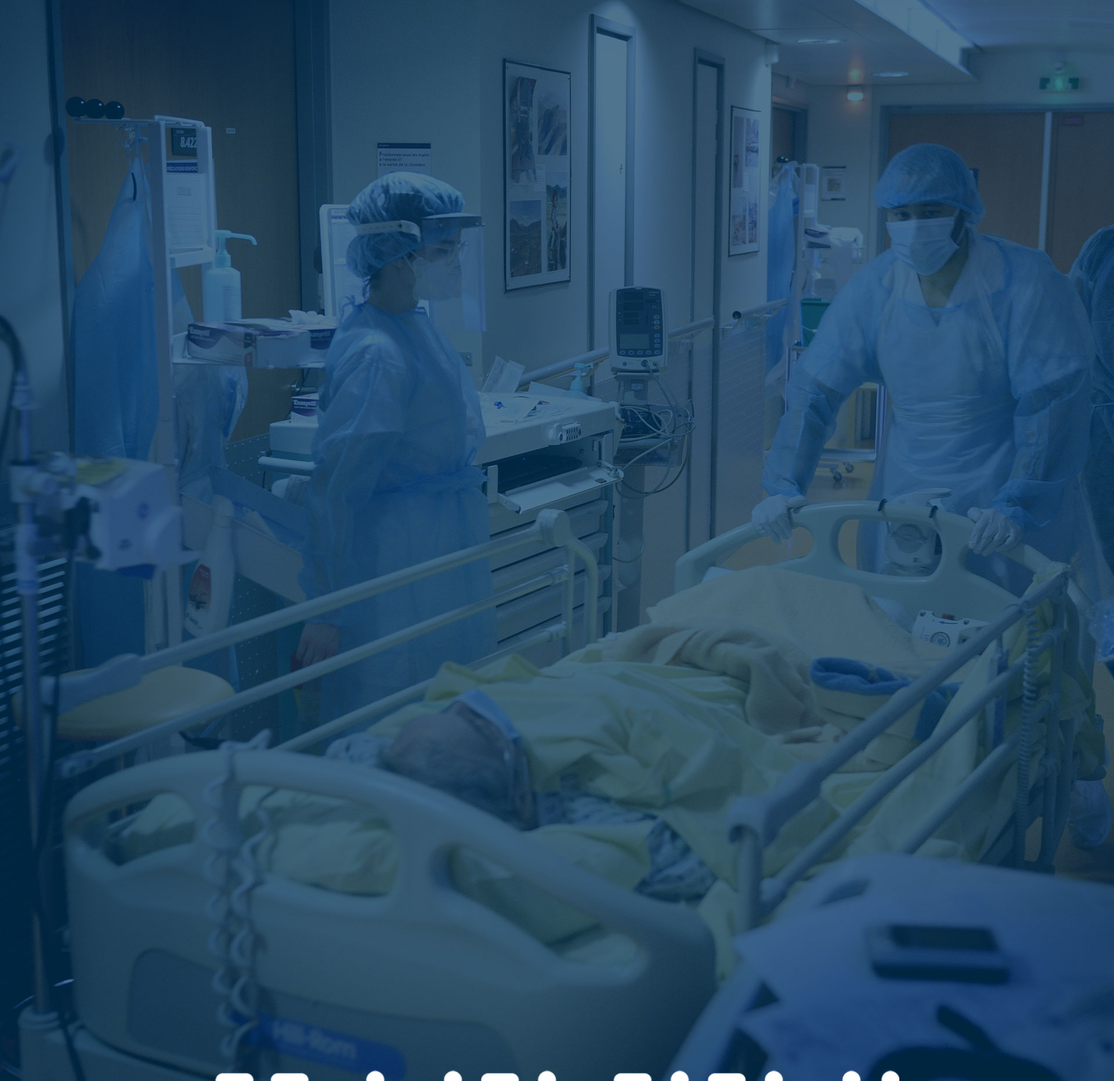
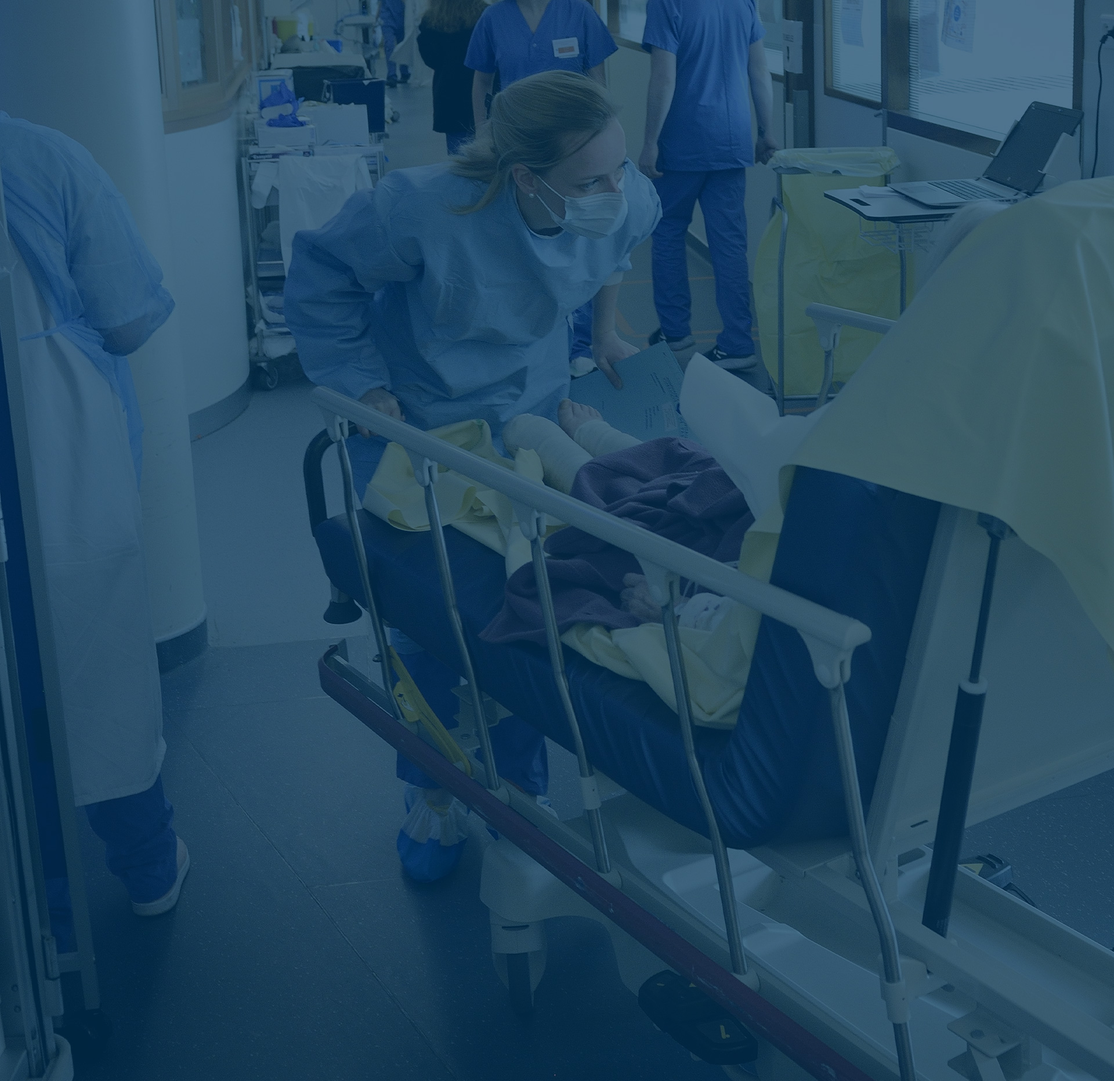
commit aphp

diff --git a/src/index.html b/src/index.html
@@ -17,9 +17,26 @@
     <meta property="og:type" content="website">
     <meta property="og:url" content="http://urgence-coronavirus.fondationrechercheaphp.fr/" />
     <meta property="og:title" content="Soutenons ceux qui prennent soin de nous" />
-    <meta property="og:image" content="http://urgence-coronavirus.fondationrechercheaphp.fr/" />
+    <meta property="og:image" content="http://ensemble.fondationrechercheaphp.fr/images/bg-header-hd.jpg" />
     <meta property="og:image:width" content="1200" />
     <meta property="og:image:height" content="627" />
+    <link rel="apple-touch-icon" sizes="57x57" href="./images/favicon/>
+    <link rel="apple-touch-icon" sizes="60x60" href="./images/favicon/apple-icon-60x60.png">
+    <link rel="apple-touch-icon" sizes="72x72" href="./images/favicon/apple-icon-72x72.png">
+    <link rel="apple-touch-icon" sizes="76x76" href="./images/favicon/apple-icon-76x76.png">
+    <link rel="apple-touch-icon" sizes="114x114" href="./images/favicon/apple-icon-114x114.png">
+    <link rel="apple-touch-icon" sizes="120x120" href="./images/favicon/apple-icon-120x120.png">
+    <link rel="apple-touch-icon" sizes="144x144" href="./images/favicon/apple-icon-144x144.png">
+    <link rel="apple-touch-icon" sizes="152x152" href="./images/favicon/apple-icon-152x152.png">
+    <link rel="apple-touch-icon" sizes="180x180" href="./images/favicon/apple-icon-180x180.png">
+    <link rel="icon" type="image/png" sizes="192x192"  href="./images/favicon/android-icon-192x192.png">
+    <link rel="icon" type="image/png" sizes="32x32" href="./images/favicon/favicon-32x32.png">
+    <link rel="icon" type="image/png" sizes="96x96" href="./images/favicon/favicon-96x96.png">
+    <link rel="icon" type="image/png" sizes="16x16" href="./images/favicon/favicon-16x16.png">
+    <link rel="manifest" href="./images/favicon/manifest.json">
+    <meta name="msapplication-TileColor" content="#ffffff">
+    <meta name="msapplication-TileImage" content="/ms-icon-144x144.png">
+    <meta name="theme-color" content="#ffffff">
 </head>
 
 <body>
@@ -35,14 +52,14 @@
                     </div>
                 </div>
                 <div class="share col-xs-6 col-lg-6 right">
-                    <a href="https://www.facebook.com/FondationRecherche/" target="_blank"><img src="./assets/images/fb.svg" alt="logo facebook"></a>
+                    <a href="https://www.facebook.com/FondationAPHP/" target="_blank"><img src="./assets/images/fb.svg" alt="logo facebook"></a>
                     <a href="https://twitter.com/FondationAPHP" target="_blank"><img src="./assets/images/tw.svg" alt="logo twitter"></a>
                 </div>
             </div>
             <div class="row between">
                 <div class="col-xs-12">
                     <div class="block-title center">
-                        <h1 class="title-page"><span>Soutenons ceux</span><br><span>qui prennent soin de nous !</span></h1>
+                        <h1 class="title-page"></span><span>Soutenons ceux</span><br><span>qui prennent soin de nous !</span></h1>
                     </div>
                 </div>
                 <div class="col-xs-12 col-xl-6">
@@ -135,7 +152,7 @@
                                 Je fais un don en ligne 
                             </div>
                             <p class="mB1">Pour nous permettre<br />de répondre à des<br />besoins concrets<br />sur le terrain</p>
-                            <a href="https://soutenir.fondationaphp.fr/ensemble" target="_blank" class="btn btn-don">Je donne</a>
+                            <a href="https://soutenir.fondationaphp.fr/ensemble?utm_source=landing&utm_medium=landing&utm_campaign=cfa2020&utm_content=boutondon" target="_blank" class="btn btn-don">Je donne</a>
                         </div>
                     </div>
                 </div>
@@ -293,7 +310,7 @@
             </div>
             <div class="sub-title">Ensemble, nous avons un impact<br />concret et immédiat</div>
             <div class="block-btn">
-                <a href="https://soutenir.fondationaphp.fr/ensemble" target="_blank" class="btn btn-don">Je fais un don</a>
+                <a href="https://soutenir.fondationaphp.fr/ensemble?utm_source=landing&utm_medium=landing&utm_campaign=cfa2020&utm_content=boutondon" target="_blank" class="btn btn-don">Je fais un don</a>
             </div>
         </div>
     </div>
@@ -384,7 +401,7 @@
                         <p class="sub-title">Un don de 200 € vous revient à 68€</p>
                         <p class="sub-title last-sub-title">Merci pour votre solidarité avec<br>les équipes de l’AP-HP</p>
                         <div class="bnt-content">
-                            <a href="https://soutenir.fondationaphp.fr/ensemble" target="_blank" class="btn btn-don">Je fais un don</a>
+                            <a href="https://soutenir.fondationaphp.fr/ensemble?utm_source=landing&utm_medium=landing&utm_campaign=cfa2020&utm_content=boutondon" target="_blank" class="btn btn-don">Je fais un don</a>
                         </div>
                     </div>
                 </div>
@@ -429,9 +446,7 @@
                             <a href="https://www.linkedin.com/company/fondation-aphp-recherche/" target="_blank"><img src="./assets/images/picto-footer-in.png" alt=""></a>
                             <a href="mailto:contact.fondation-aphp@aphp.fr" target="_blank"><img src="./assets/images/picto-footer-mail.png" alt=""></a>
                         </div>
-                        <div class="footer-link right"><a href="mailto:contact.fondation-aphp@aphp.fr">Contact</a> | <a href="https://fondationrechercheaphp.fr/mentions-legales/">Mentions légales</a> | <a href="https://fondationrechercheaphp.fr/la-fondation-de-lap
-                            -hp-pour-la-recherche/qui-sommes-nous/charte-de-pr
-                            otection-donnees-personnelles/">Données personnelle</a></div>
+                        <div class="footer-link right"><a href="mailto:contact.fondation-aphp@aphp.fr">Contact</a> | <a href="https://fondationrechercheaphp.fr/mentions-legales/">Mentions légales</a> | <a href="https://fondationrechercheaphp.fr/la-fondation-de-lap-hp-pour-la-recherche/qui-sommes-nous/charte-de-protection-donnees-personnelles/">Données personnelle</a></div>
                         </div>
                     </div>
                 </div>

diff --git a/src/assets/scripts/all.js b/src/assets/scripts/all.js
@@ -24,7 +24,7 @@ $( function() {
 } );
 
 function renderLink(count) {
-    return $('.donation-form__actions').attr('data-link') + count + '?utm_source=landing&utm_medium=landing&utm_campaign=cfa2020&utm_content=boutondon';
+    return $('.donation-form__actions').attr('data-link') + count + '00&utm_source=landing&utm_medium=landing&utm_campaign=cfa2020&utm_content=boutondon';
 }
 
 function calclatePercent(number) {
@@ -241,3 +241,25 @@ $('.donation-form__input', donationForm).keyup(function (event) {
     }
 
   });
+
+  var getUrlParameter = function getUrlParameter(sParam) {
+    var sPageURL = window.location.search.substring(1),
+        sURLVariables = sPageURL.split('&'),
+        sParameterName,
+        i;
+
+    for (i = 0; i < sURLVariables.length; i++) {
+        sParameterName = sURLVariables[i].split('=');
+
+        if (sParameterName[0] === sParam) {
+            return sParameterName[1] === undefined ? true : decodeURIComponent(sParameterName[1]);
+        }
+    }
+};
+
+if(getUrlParameter('nom') !== undefined){
+  var name = '<span>';
+      name += getUrlParameter('nom');
+      name += ',</span>';
+  $('.section1 .title-page').prepend(name);
+}

diff --git a/src/assets/scss/all.scss b/src/assets/scss/all.scss
@@ -80,7 +80,7 @@ body{
          position: absolute;
          height: 100%;
          font-size: 100%;
-         line-height: 3.4;
+         line-height: 50px;
          color: #fff;
          transition: all 0.3s;
          left: 130%;
@@ -106,10 +106,13 @@ body{
    }
    header{
       width: 100%;
-      background:url($img-path+'bg-header.jpg') center no-repeat;
+      background:url($img-path+'bg-header-hd-mobile.jpg') center no-repeat;
       background-size: cover;
       // height: 1560px;
       padding-bottom: $gutter;
+      @media #{$breakpoint-xl-up} {
+         background:url($img-path+'bg-header-hd.jpg') center no-repeat;
+      }
       .container-top{
          padding-top: $gutter*2;
          margin-bottom: $gutter*2;
@@ -357,7 +360,7 @@ body{
       }
    }
    .section3{
-      background:url($img-path+'bg-section3.jpg') center bottom no-repeat;
+      background:url($img-path+'bg-section3.jpg') center top no-repeat;
       background-size: cover;
       color:$secondary-color;
       padding-bottom: $gutter*2;
